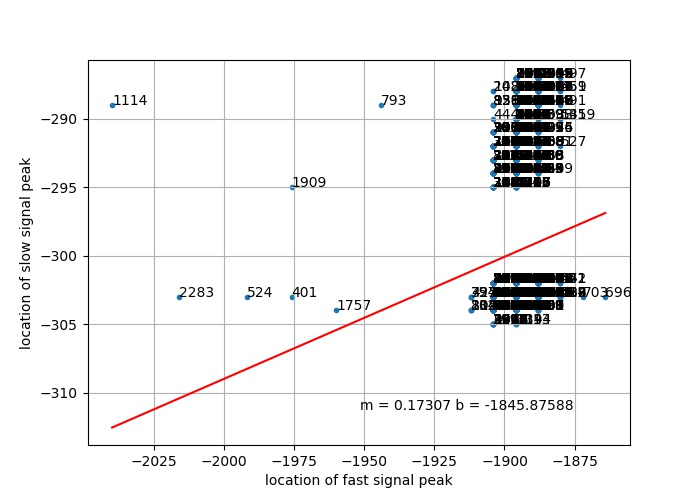
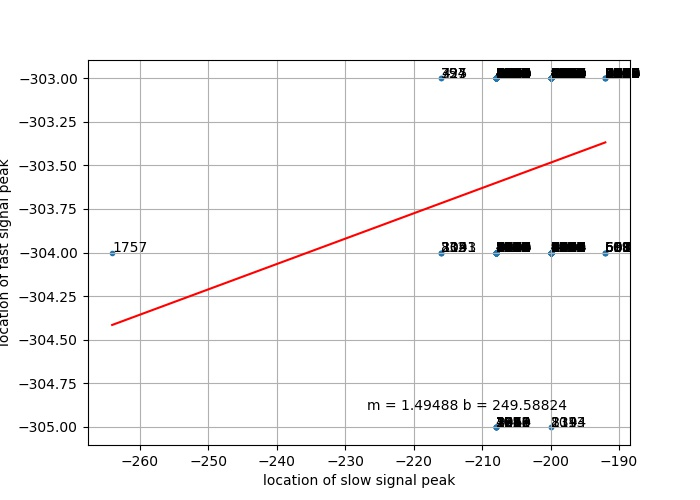
more bugfixes and addede new plot

diff --git a/software/correlator.py b/software/correlator.py
@@ -109,15 +109,18 @@ for i in monosgnl:
 	slowpeaks	= np.where(slowdata[i]>0.05)
 	slowint[j]	= np.sum(slowdata[i][slowpeaks])*(Stramptime[1]-Stramptime[0])
 	slowmax[j]	= np.amax(slowdata[i])
-	slowloc[j]	= Stramptime[np.argmax(slowdata[i])]
+	slowloc[j]	= Stramptime[np.argmax(slowdata[i])+minindex]
 
 	j += 1
 
 newpeaks	= np.where(fastmax > minpeakval + noisethres)
-newfast 	= fastint[newpeaks]
-newslow		= slowint[newpeaks]
+newfastint 	= fastint[newpeaks]
+newslowint	= slowint[newpeaks]
 newfastmax	= fastmax[newpeaks]
 newslowmax	= slowmax[newpeaks]
+newfastloc	= fastloc[newpeaks]
+newslowloc	= slowloc[newpeaks]
+
 
 plt.figure(figsize=(7,5))
 plt.scatter(slowint, fastint, marker='.')
@@ -157,13 +160,13 @@ plt.savefig('peakint_pobf.jpg')
 plt.close()
 
 plt.figure(figsize=(7,5))
-plt.scatter(newslow, newfast, marker='.')
-plt.plot(np.unique(newslow), np.poly1d(np.polyfit(newslow, newfast, 2))(np.unique(newslow)), 'r')
+plt.scatter(newslowint, newfastint, marker='.')
+plt.plot(np.unique(newslowint), np.poly1d(np.polyfit(newslowint, newfastint, 2))(np.unique(newslowint)), 'r')
 ax = plt.gca()
 ax.set_xlabel('integral around slow signal peak')
 ax.set_ylabel('integral around fast signal peak')
 plt.grid()
-plt.text(0.7, 0.1,'a = ' + '%.5f' % np.polyfit(newfast, newslow, 2)[0] + ' b = ' + '%.5f' % np.polyfit(newfast, newslow, 2)[1] + ' c = ' + '%.5f' % np.polyfit(newfast, newslow, 2)[2], horizontalalignment='center', verticalalignment='center', transform = ax.transAxes)
+plt.text(0.7, 0.1,'a = ' + '%.5f' % np.polyfit(newfastint, newslowint, 2)[0] + ' b = ' + '%.5f' % np.polyfit(newfastint, newslowint, 2)[1] + ' c = ' + '%.5f' % np.polyfit(newfastint, newslowint, 2)[2], horizontalalignment='center', verticalalignment='center', transform = ax.transAxes)
 #plt.show()
 plt.savefig('newpeakint_pobf.jpg')
 plt.close()
@@ -189,10 +192,10 @@ plt.savefig('newpeaks_correlation.jpg')
 plt.close()
 
 plt.figure(figsize=(7,5))
-plt.scatter(slowloc, fastloc, marker='.')
+plt.scatter(newslowloc, newfastloc, marker='.')
 ax = plt.gca()
-ax.set_xlabel('location of fast signal peak')
-ax.set_ylabel('location of slow signal peak')
+ax.set_xlabel('location of slow signal peak')
+ax.set_ylabel('location of fast signal peak')
 
 j = 0
 for i in monosgnl:
@@ -205,11 +208,11 @@ plt.savefig('peakloc_correlation.jpg')
 plt.close()
 
 plt.figure(figsize=(7,5))
-plt.scatter(slowloc, fastloc, marker='.')
-plt.plot(np.unique(slowloc), np.poly1d(np.polyfit(slowloc, fastloc, 1))(np.unique(slowloc)), 'r')
+plt.scatter(newslowloc, newfastloc, marker='.')
+plt.plot(np.unique(newslowloc), np.poly1d(np.polyfit(newslowloc, newfastloc, 1))(np.unique(newslowloc)), 'r')
 ax = plt.gca()
-ax.set_xlabel('location of fast signal peak')
-ax.set_ylabel('location of slow signal peak')
+ax.set_xlabel('location of slow signal peak')
+ax.set_ylabel('location of fast signal peak')
 
 j = 0
 for i in monosgnl:
@@ -217,12 +220,33 @@ for i in monosgnl:
 	j += 1
 
 plt.grid()
-plt.text(0.7, 0.1,'m = ' + '%.5f' % np.polyfit(fastloc, slowloc, 1)[0] + ' b = ' + '%.5f' % np.polyfit(fastloc, slowloc, 1)[1],
+plt.text(0.7, 0.1,'m = ' + '%.5f' % np.polyfit(newfastloc, newslowloc, 1)[0] + ' b = ' + '%.5f' % np.polyfit(newfastloc, newslowloc, 1)[1],
      horizontalalignment='center',
      verticalalignment='center',
      transform = ax.transAxes)
 #plt.show()
 plt.savefig('peakloc_lobf.jpg')
+plt.close()
+
+plt.figure(figsize=(7,5))
+plt.scatter(newslowint, newslowloc - newfastloc, marker='.')
+plt.plot(np.unique(newslowloc), np.poly1d(np.polyfit(newslowloc, newfastloc, 1))(np.unique(newslowloc)), 'r')
+ax = plt.gca()
+ax.set_xlabel('integral around slow signal peak')
+ax.set_ylabel('slow signal peak location - fast signal peak location')
+
+#j = 0
+#for i in monosgnl:
+#	ax.annotate(Original[i][0], (slowloc[j], fastloc[j]))
+#	j += 1
+
+plt.grid()
+plt.text(0.7, 0.1,'m = ' + '%.5f' % np.polyfit(fastloc, slowloc, 1)[0] + ' b = ' + '%.5f' % np.polyfit(fastloc, slowloc, 1)[1],
+     horizontalalignment='center',
+     verticalalignment='center',
+     transform = ax.transAxes)
+#plt.show()
+plt.savefig('slowint_peaklocdiff_correlation.jpg')
 plt.close()
 
 """trnsgrsrs = []
